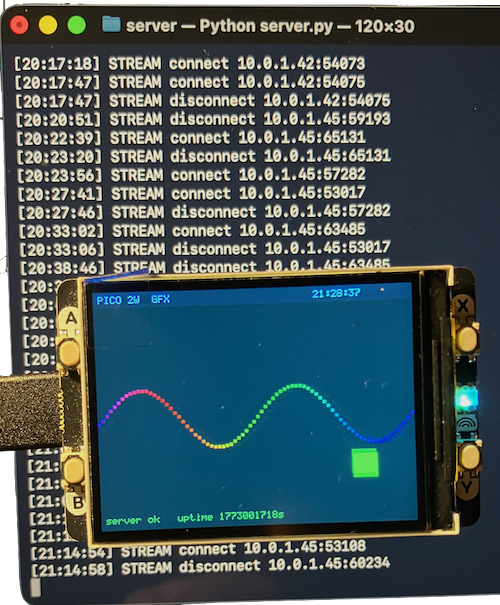
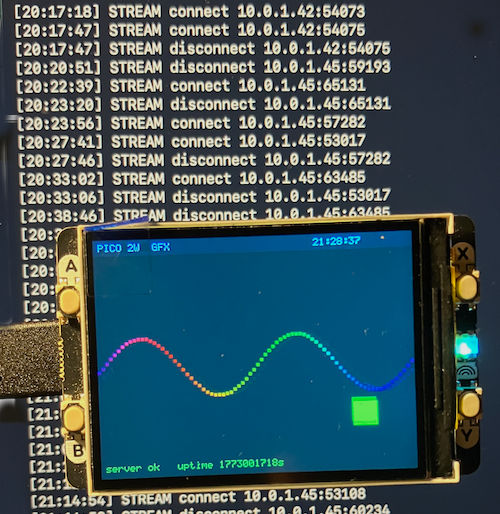
Updates

diff --git a/ch07/addition/net/tcpdisplay/README.md b/ch07/addition/net/tcpdisplay/README.md
@@ -261,5 +261,5 @@ python3 server/server.py
   31.25 MHz to 62.5 MHz gave ~50 fps headroom, matching the 30 fps server rate.
 
 
-![TCP Stream Server](./../../../assets/image/tcpdisplay2.png)
+![TCP Stream Server](./../../../assets/image/tcpdisplay.png)
 
